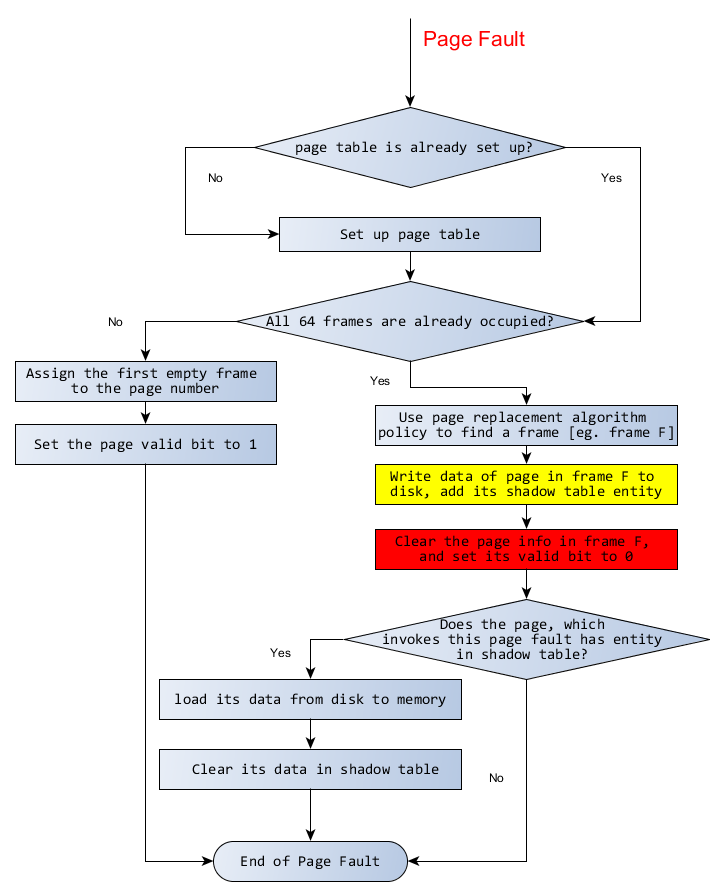
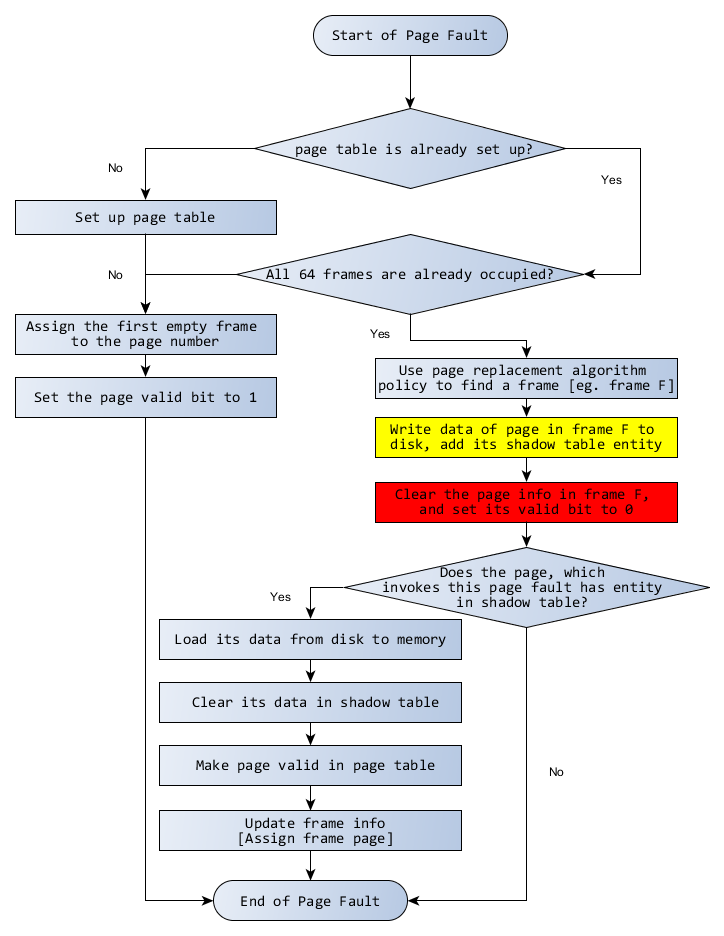
report update

diff --git a/README_phase_2.md b/README_phase_2.md
@@ -40,7 +40,7 @@ This function is used to check the disk queue, and dequeue the nodes who already
 ![Disk Write](images/diskWrite.jpg "Disk Write")  
 3. **`interrupt_handler`**  
 In phase 2, the `interrupt_handler()` should both deals with timer interrupt & **I/O interrupt**[I have introduced timer interrupt in phase 1, so I just give explanation for I/O interrupt here].     
-![I/O Interrupt](images/interrupt.jpg "I/O Interrupt")  
+![I/O Interrupt](images/interrupt.png "I/O Interrupt")  
 4. **`fault_handler`**    
 **fault_handler** is very important in phase 2, as I find that except for test2c and test2d, all other test case rely on it for implementation.     
 In my program, I tried three page replacement algorithms of **Second-Chance**, **FIFO**, and one other **weird way** -- use only one frame to do all the replacement.
@@ -54,8 +54,13 @@ Below, I will show how page tabke, frame table and shadow table interacts with e
 2. Frame table with size 64 is shared by all processes -- Frame struct is defined by me, but I recognize it as a map for MEMORY array defined by haedware.    
 3. Each process has an independent shadow table with size 1024, which store  the disk location for the page that is replaced.    
 4. **Page table** will be initialized when the first page fault happens in `fault_handler()`, while frame table and shadow table are initialized when OS502 is starting.     
-![](images/justification.png)
+![](images/justification.png)<br/>
 
+----------
+
+![](images/shadowTable.png)
+
+----------
 
 I am trying to make my ideas as clear as possible, and wish I make it. By the way, you can also find more details in my code, as I have add tons of comments there. Also, you can contact me by hzhou@wpi.edu for more infomation.       
 
@@ -64,14 +69,15 @@ I have tried three(maybe I can say 4) page replacement algorithms: **FIFO**, **S
 ![Use only one fix frame](images/test2e_fixed.png "Use only one fix frame")     <br/>
 ![FIFO](images/test2e_fifo.png "FIFO")     <br/>
 ![Second Chance](images/test2e_secondChance.png "Second Chance")     <br/>
-1. Surprising, that in **test2e** only one fix frame to do page replacement has a better profermance than other two in Page Fault count, Total execution time, and Read/Write disk times. I think that it happens because the page number of data to read/write is sequential(not ramdon), therefore this issue will not happen in test2f.    <br/>
-2. FIFO & Second Chance have almost the same perfermance for test2e, because after the first round(set referrence bit to 0), second chance is the same as FIFO. Therefore, second chance costs 50 more execution time from above images.     <br/>
-3. Below is an image od comparison for different algorithms. And we can find that fixed frame almost has the same performance with Second Chance. FIFO has the worst performance.     
-![test2f comparision](images/test2f_comparision.png "test2f comparision")     <br/>
-###6. Anomalies 
-1. Actually I understand how lock works, but I cannot use it well, which makes my program vulnerable. With or without schedule printer will bring very different result at the end, especially for multi-processes tests.     
-2. For some issues, I believe I have very solid logic, but when I implemented for my program, it failed. Seems that there is a naughty "ghost" in this OS, who likes bringing troubles for me.  -- Good news, I can find another way or do a bit sacrifice for implementing that function [except for test2g :(  ].      
-3. For test2d, only disk 1, 2 and 3 are used, but in the output I find that I have some disk operation on disk 11( Why 11? Actually, 11 is the largest disk index I checked in interrupt hanlder. 11 is changed with that.).    
+1. Surprising, that in **test2e** only one fix frame to do page replacement has a better profermance than other two in Page Fault count, Total execution time, and Read/Write disk times. I think that it happens because the page number of data to read/write is sequential(not ramdon), therefore this issue will not happen in test2f.    <br/><br/>
+2. FIFO & Second Chance have almost the same perfermance for test2e, because after the first round(set referrence bit to 0), second chance is the same as FIFO. Therefore, second chance costs 50 more execution time from above images.     <br/><br/>
+3. Below is an image od comparison for different algorithms. And we can find that fixed frame almost has the same performance with Second Chance. FIFO has the worst performance.   <br/>  
+![test2f comparision](images/test2f_comparision.png "test2f comparision")     <br/>     
+
+###6. Anomalies    
+1. Actually I understand how lock works, but I cannot use it well, which makes my program vulnerable. With or without schedule printer will bring very different result at the end, especially for multi-processes tests.<br/><br/>    
+2. For some issues, I believe I have very solid logic, but when I implemented for my program, it failed. Seems that there is a naughty "ghost" in this OS, who likes bringing troubles for me.  -- Good news, I can find another way or do a bit sacrifice for implementing that function [except for test2g :(  ].  <br/><br/>      
+3. For test2d, only disk 1, 2 and 3 are used, but in the output I find that I have some disk operation on disk 11( Why 11? Actually, 11 is the largest disk index I checked in interrupt hanlder. 11 is changed with that).    
 ![test2d disk 11](images/test2d.png "test2d disk11")
 
 ###7. Appendix:    
@@ -99,4 +105,4 @@ Test Results
     d) Test program 2d runs and in most case it gives reasonable output.
     e) Test program 2e runs and gives expected output.
     f) Test program 2f runs and gives expected output.
-	g) Test program 2g runs and gives unreasonable output[PCB lost during processing].   
+	g) Test program 2g runs but cannot terminate correctly, and gives part reasonable output at first.   
